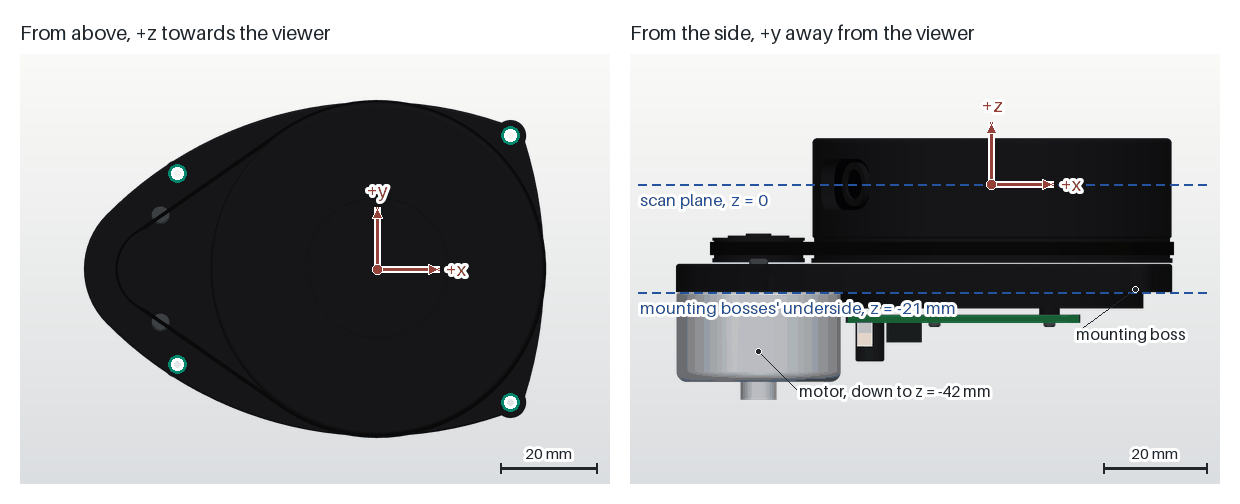
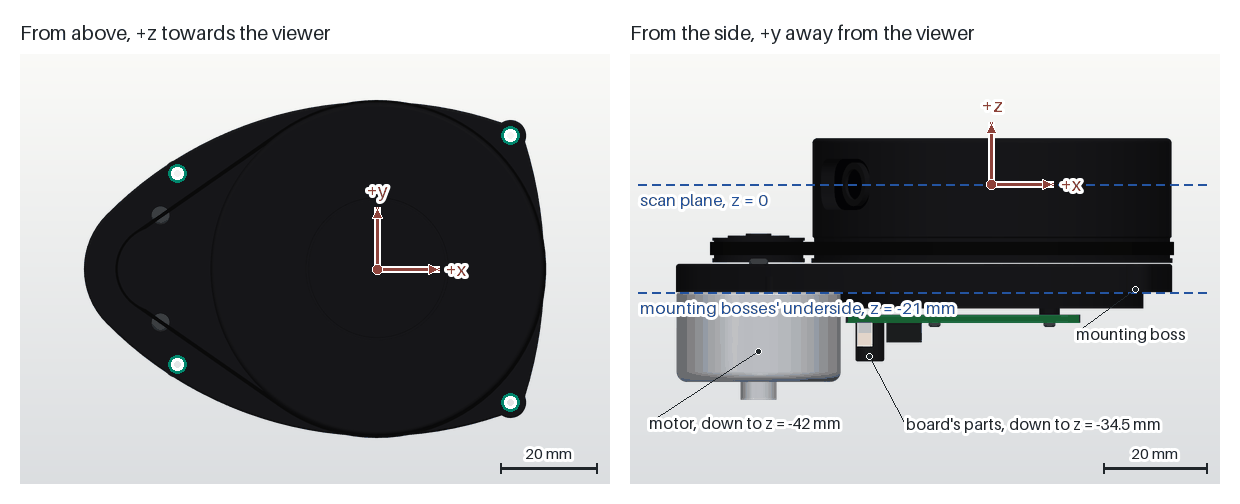
RPLIDAR A1 page: what hangs below the mounting plane
The mounting table named the motor as the only thing below the
mounting bosses. The housing under the head, the board and the board's
parts hang below the mounting plane too.

The table now has a row each for the housing (3.2 mm below the plane),
the board (6 mm), the board's parts and connectors (13.5 mm and
10.6 mm) and the motor (21 mm), with where each lies. A paragraph says
what that means for a flat plate and for standoffs under the bosses.
The frame picture's side view names the lowest of the board's parts
next to the motor.

Changed region(s): [[0.521, 0.744, 0.95, 0.8631]]

diff --git a/scripts/render_frames.py b/scripts/render_frames.py
@@ -152,19 +152,27 @@ def scanner_figure() -> FrameFigure:
 
 
 def scanner_a1_figure() -> FrameFigure:
-    """Return the RPLIDAR A1's picture: its four holes, the mounting plane, the scan plane."""
+    """Return the RPLIDAR A1's picture: its four holes, the mounting plane, the scan plane.
+
+    The labels name what hangs below the mounting plane, with the lowest z of each: the
+    motor, and the tallest part on the underside of the board under the base.
+    """
     scanner = rplidar_a1
     seat = scanner.z_at(scanner.BASE_BOTTOM)
     holes = [(x, y, seat) for x, y in scanner.MOUNT_HOLES]
     motor_bottom = scanner.z_at(scanner.MOTOR_BOSS[1])
+    part_x, part_y, _, part_height = scanner.ROUND_PART
+    parts_bottom = scanner.z_at(scanner.PCB_BOTTOM - part_height)
     return FrameFigure(
         (TOP_VIEW, SIDE_VIEW), holes,
         [Plane('scan plane, z = 0', Z_AXIS, 0.0),
          Plane(f"mounting bosses' underside, z = {seat:g} mm", Z_AXIS, seat)],
         [Label('mounting boss', (scanner.MOUNT_HOLES[0][0], 0.0, seat + 0.5), (-60, 34)),
+         Label(f"board's parts, down to z = {parts_bottom:g} mm",
+               (part_x, part_y, parts_bottom + 1.0), (36, 58)),
          Label(f'motor, down to z = {motor_bottom:g} mm',
                (-scanner.MOTOR_OFFSET, 0.0, scanner.z_at(scanner.MOTOR_CAN[0]) + 6.0),
-               (40, 30))])
+               (-110, 62))])
 
 
 def raspberry_pi_figure() -> FrameFigure:

diff --git a/provenance/rplidar_a1.md b/provenance/rplidar_a1.md
@@ -10,7 +10,7 @@ Generator: [`generators/rplidar_a1.py`](../generators/rplidar_a1.py).
 
 ![The laser scanner from above and from the side, with the origin and axes of its frame, its four mounting holes, the scan plane and the mounting plane](../docs/images/frames/rplidar_a1.png)
 
-The picture shows the scanner from above and from the side. The red dot is the origin of the mesh's frame, on the head's rotation axis in the scan plane, and the red arrows are its positive axes. The green rings mark the four Ø3 mm mounting holes. The upper dashed line is the scan plane. The lower dashed line is the underside of the base's four mounting bosses, the mounting plane. The motor hangs below the mounting plane.
+The picture shows the scanner from above and from the side. The red dot is the origin of the mesh's frame, on the head's rotation axis in the scan plane, and the red arrows are its positive axes. The green rings mark the four Ø3 mm mounting holes. The upper dashed line is the scan plane. The lower dashed line is the underside of the base's four mounting bosses, the mounting plane. The housing under the head, the board with its parts and the motor hang below the mounting plane. The side view names the lowest of the board's parts and the motor.
 
 The files are in metres. Positions on this page are in millimetres.
 
@@ -20,9 +20,14 @@ The files are in metres. Positions on this page are in millimetres.
 | Mounting holes at the motor's end | (x, y) = (-42, -20) and (-42, 20) mm |
 | Mounting plane, the underside of the bosses around the holes | z = -21 mm |
 | Scan plane | z = 0 |
-| Motor's bottom | z = -42 mm, on the motor's axis at x = -45.5 mm. A mount needs 21 mm of room below the mounting plane there |
+| Housing under the head | Down to z = -24.2 mm, 3.2 mm below the mounting plane, within 29.5 mm of the head's axis |
+| Board under the housing | Its underside at z = -27 mm, 6 mm below the mounting plane. The board lies from x = -28.5 to 17.2 mm and from y = -28.6 to 28.6 mm |
+| Parts under the board | Down to z = -34.5 mm, 13.5 mm below the mounting plane: the round part at (x, y) = (-23.8, 15.9) mm. The three connectors at x = -24.8 mm reach z = -31.6 mm, 10.6 mm below the mounting plane |
+| Motor's bottom | z = -42 mm, 21 mm below the mounting plane, on the motor's axis at x = -45.5 mm |
 | Base's top face | z = -15.5 mm |
 | Head's top | z = +9 mm |
+
+Only the four bosses lie in the mounting plane. A flat plate under them needs an opening for the housing, the board and the motor. A mount that carries the bosses alone, such as four standoffs, leaves that room free: 13.5 mm clear the board's parts, and 21 mm clear the motor.
 
 The origin lies on the head's rotation axis, in the scan plane: 42 mm above the motor's bottom, the middle of the datasheet's 10 mm laser working area. +z points up. +x points from the motor to the base's round end, Slamtec's 0° direction for the A1.
 
